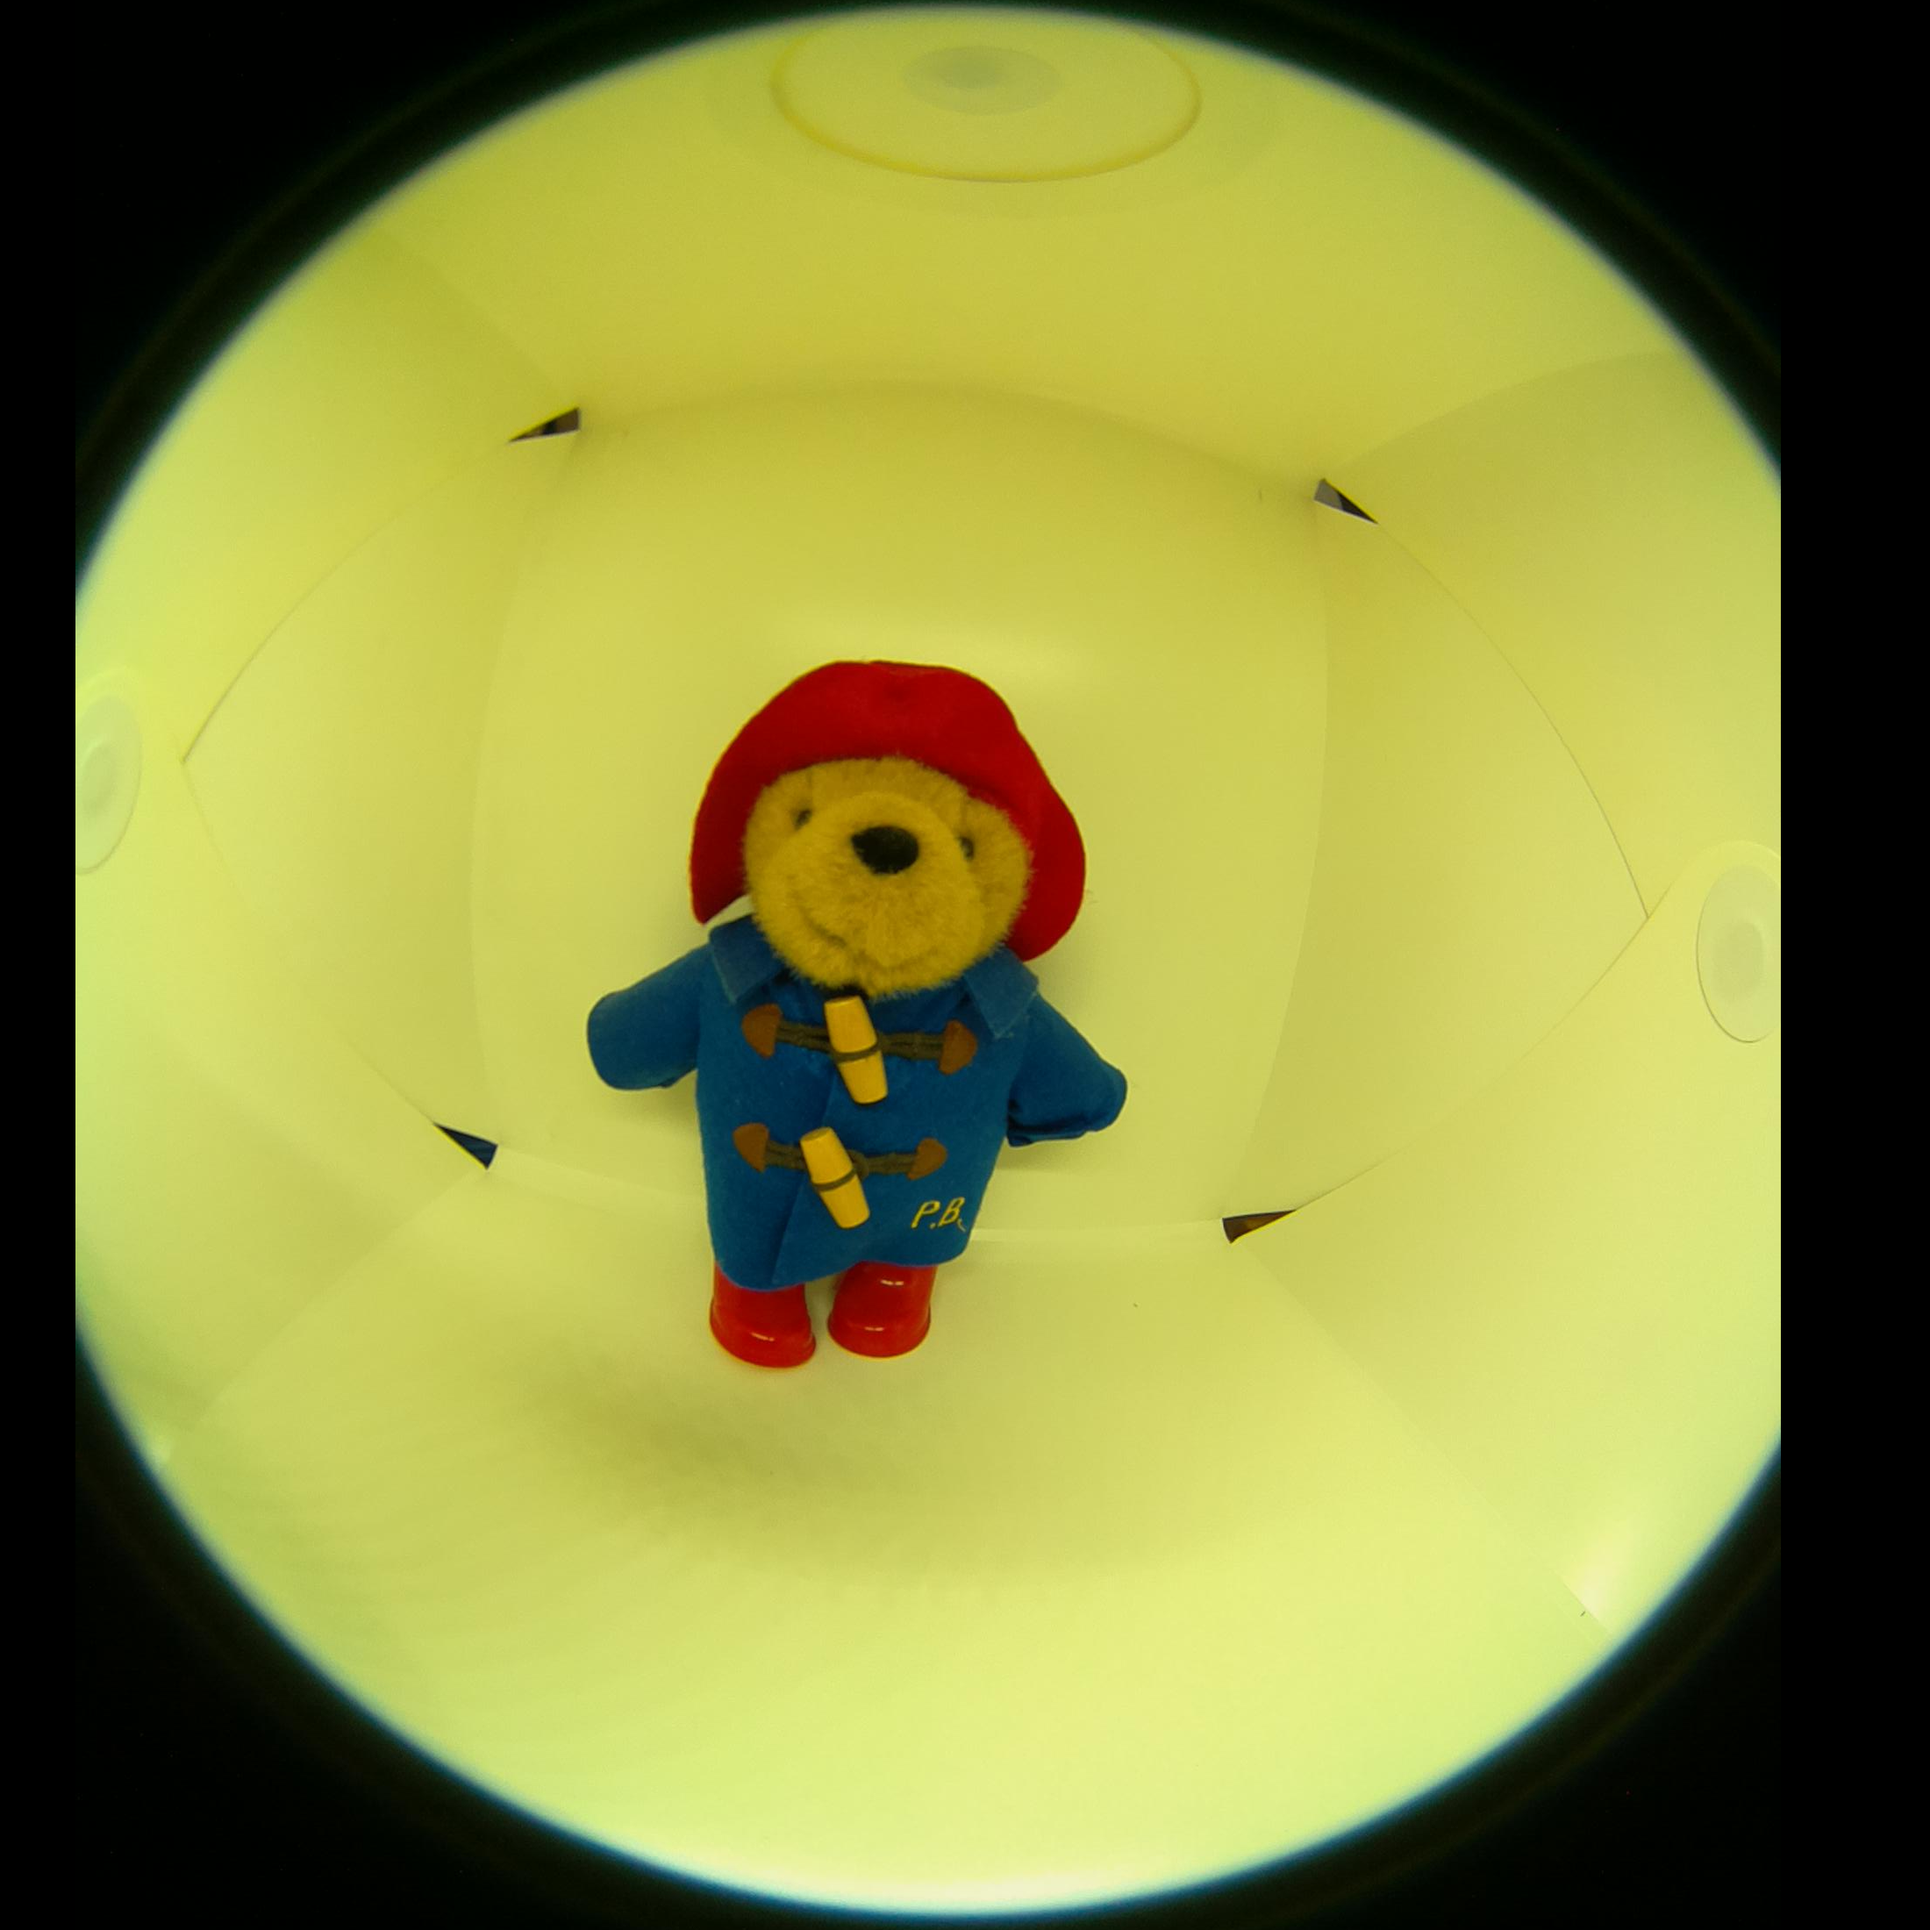
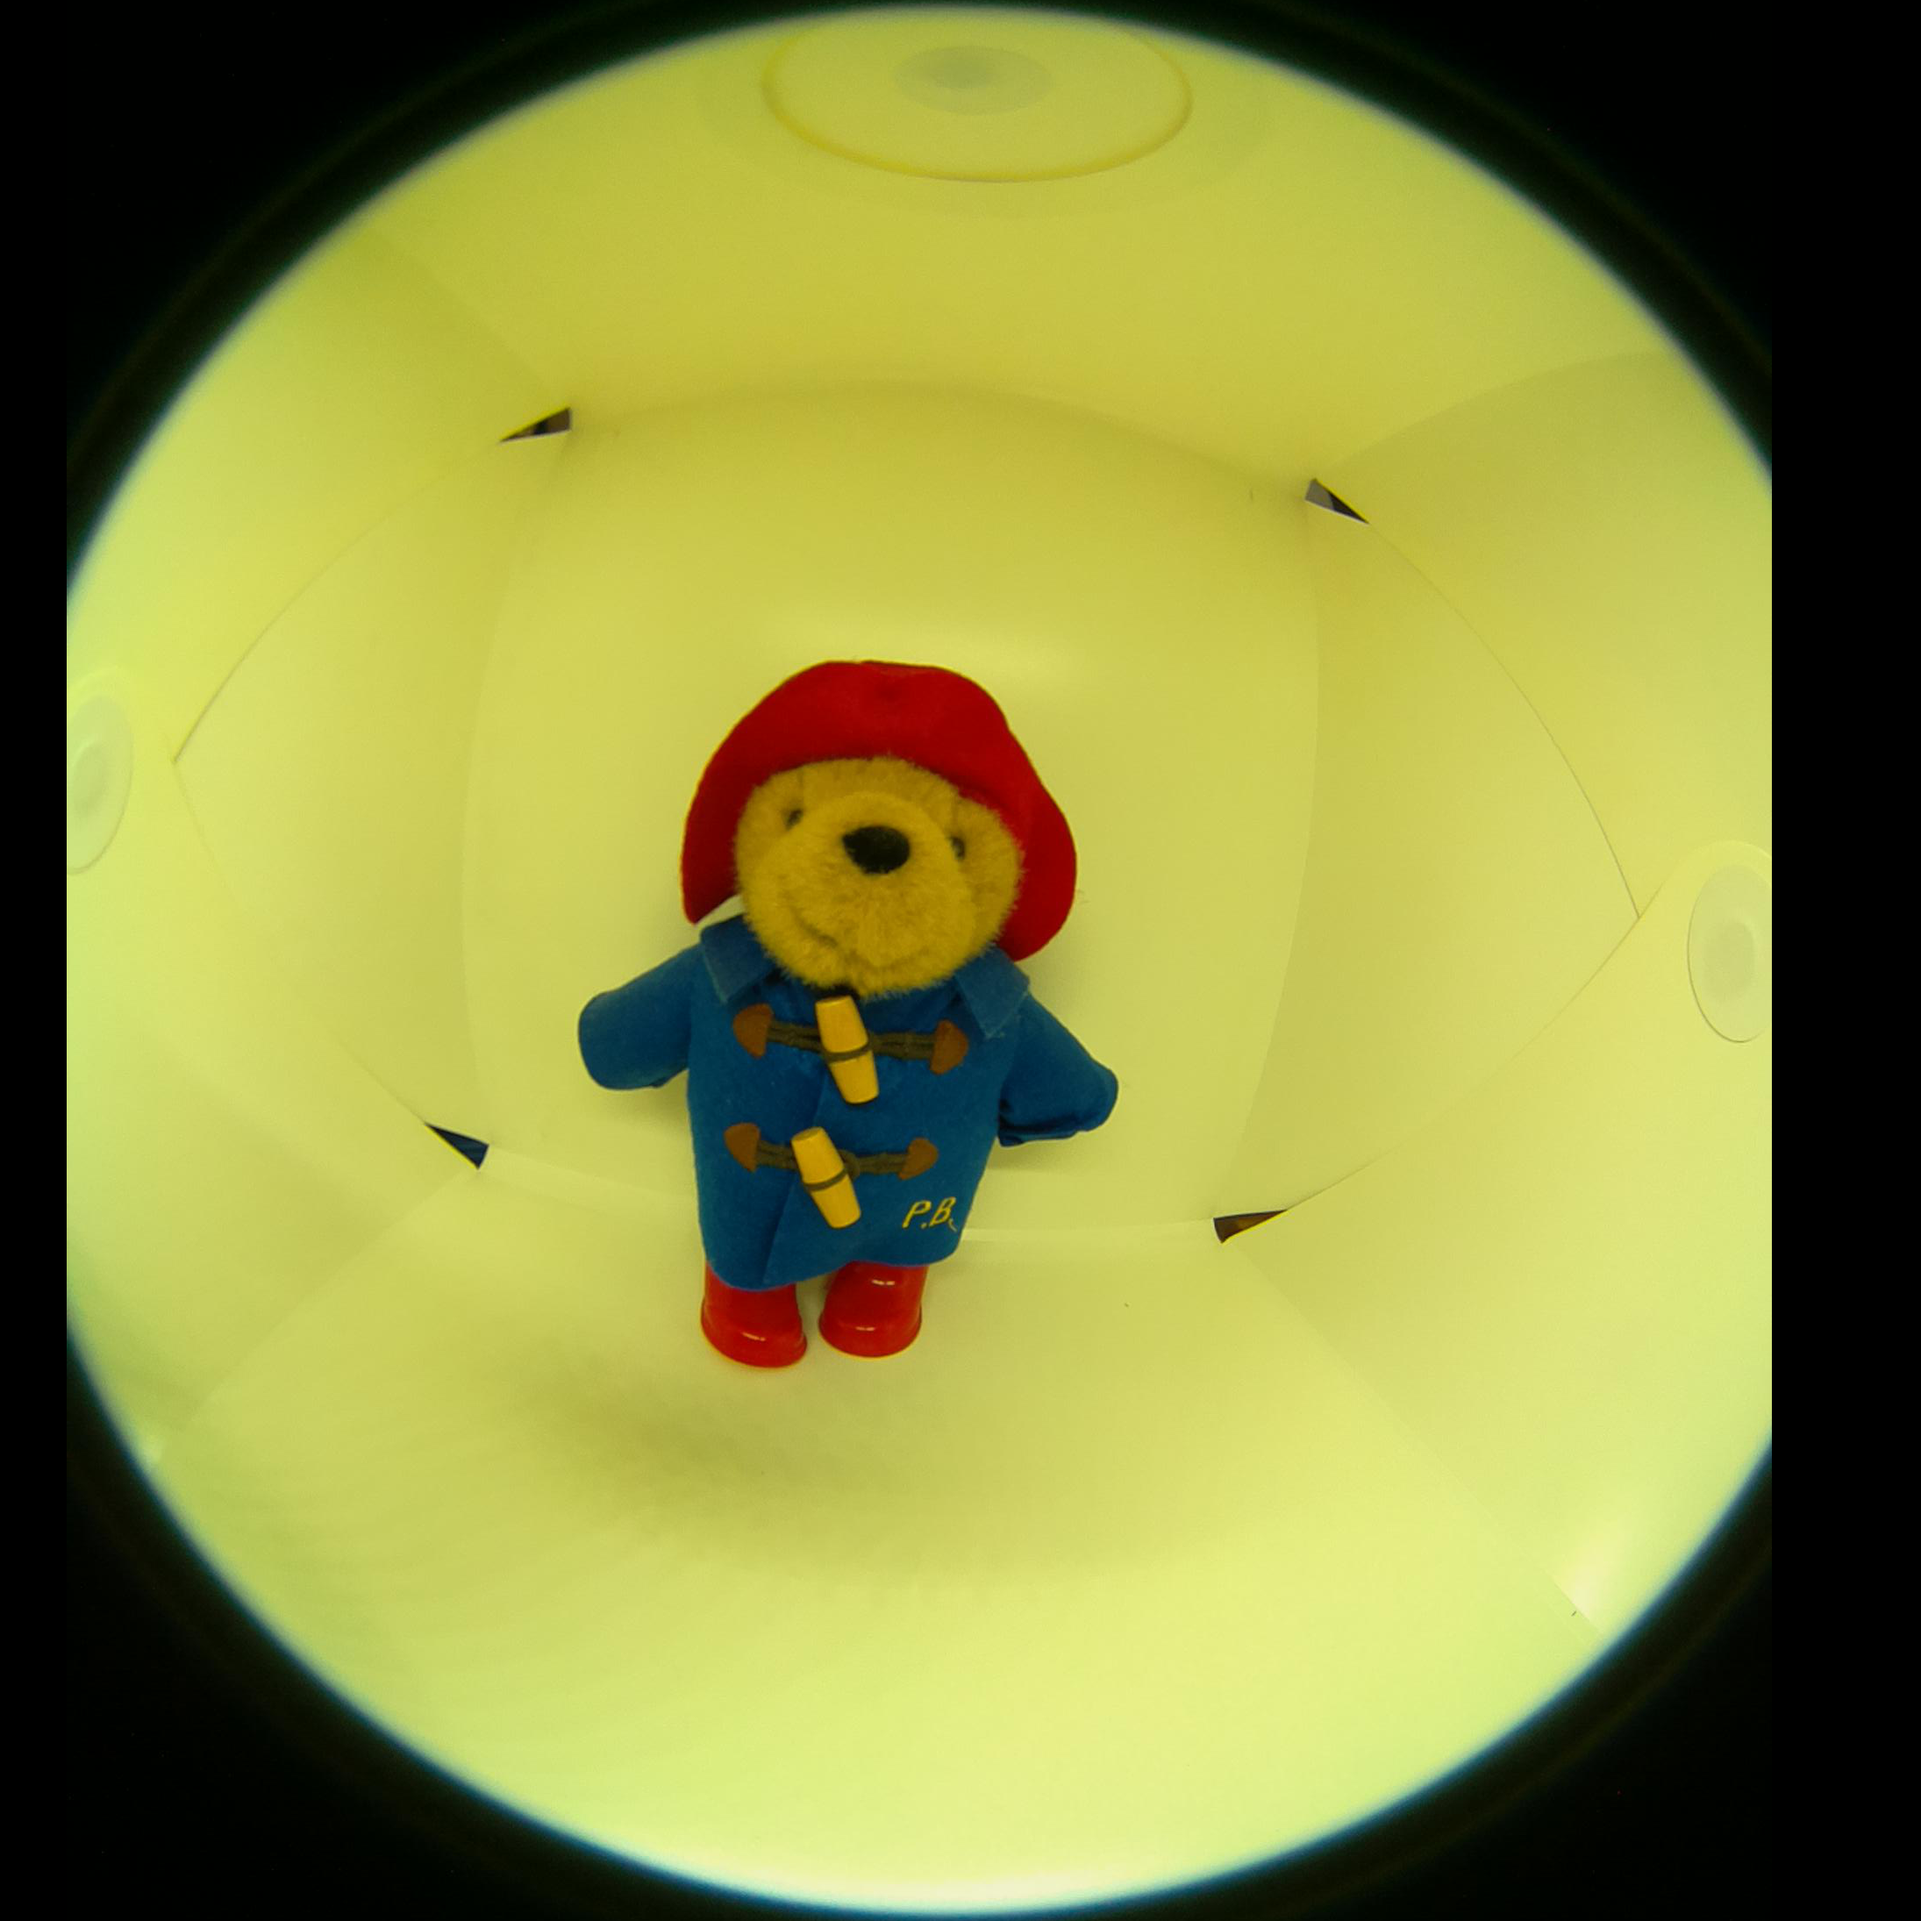
finished adding the regression test

diff --git a/regression.py b/regression.py
@@ -118,7 +118,6 @@ def crop(img,left,top,sz):
     crop_img = img[top:top+sz, left:left+sz] 
     return crop_img
 
-
 def main():
     imgFile = 'img/test.jpg'
 
@@ -127,11 +126,11 @@ def main():
 
     img = cv2.imread(imgFile,cv2.IMREAD_COLOR)
 
-    sz_src   = 2200   # source image size in pixel after squaring
-    sz_out   = 2200   # output pano image hight in pixel
+    sz_src   = 2190   # source image size in pixel after squaring
+    sz_out   = 1024   # output pano image hight in pixel
     ml       = 220    # modified pixels from left
     mt       = 0      # modified pixels from top
-    fov      = float(220)
+    fov      = float(200)
     
     # square the image, better to get full circular image
     rows= img.shape
@@ -142,7 +141,7 @@ def main():
 
     img = crop(img,ml,mt,sz_src)
     M = np.float32([[1,0,0],[0,1,atop]])
-    img = cv2.warpAffine(img,M,(2200,2200))
+    img = cv2.warpAffine(img,M,(2190,2190))
     # rotated the image. 
     img=np.rot90(img)
     img=np.rot90(img)
@@ -159,7 +158,7 @@ def main():
 
     # apply map and output image
     img = unwarp(img,mapx,mapy)
-    cv2.imwrite("img/convertpanotest.png",img)
+    cv2.imwrite("img/regression.png",img)
 
 
 if __name__ == "__main__":

diff --git a/README.md b/README.md
@@ -150,22 +150,6 @@ the address for preview photos is: _ip/rpi-web-cam-interface>/previewpano.php_
 
 ## Example images
 
-This is the originial image, the left most circular to the left boundary is about 220 pixels.
-
-<p align="center">
-  <img src="https://github.com/rpicamera/360pano/blob/master/img/test.jpg" width="350"/>
-</p>
-
-Here is the image after crop and rotation
-<p align="center">
-  <img src="https://github.com/rpicamera/360pano/blob/master/img/resizecroped.png" width="350"/>
-</p>
-
-And here is the pano image after remapping the above squared circular image
-<p align="center">
-  <img src="https://github.com/rpicamera/360pano/blob/master/img/convertpanotest.png" width="350"/>
-</p>
-
 Create the pano from the my 2PiView kit using Python code, detail in genpano.py. And here is the example
 
 <p align="center">
